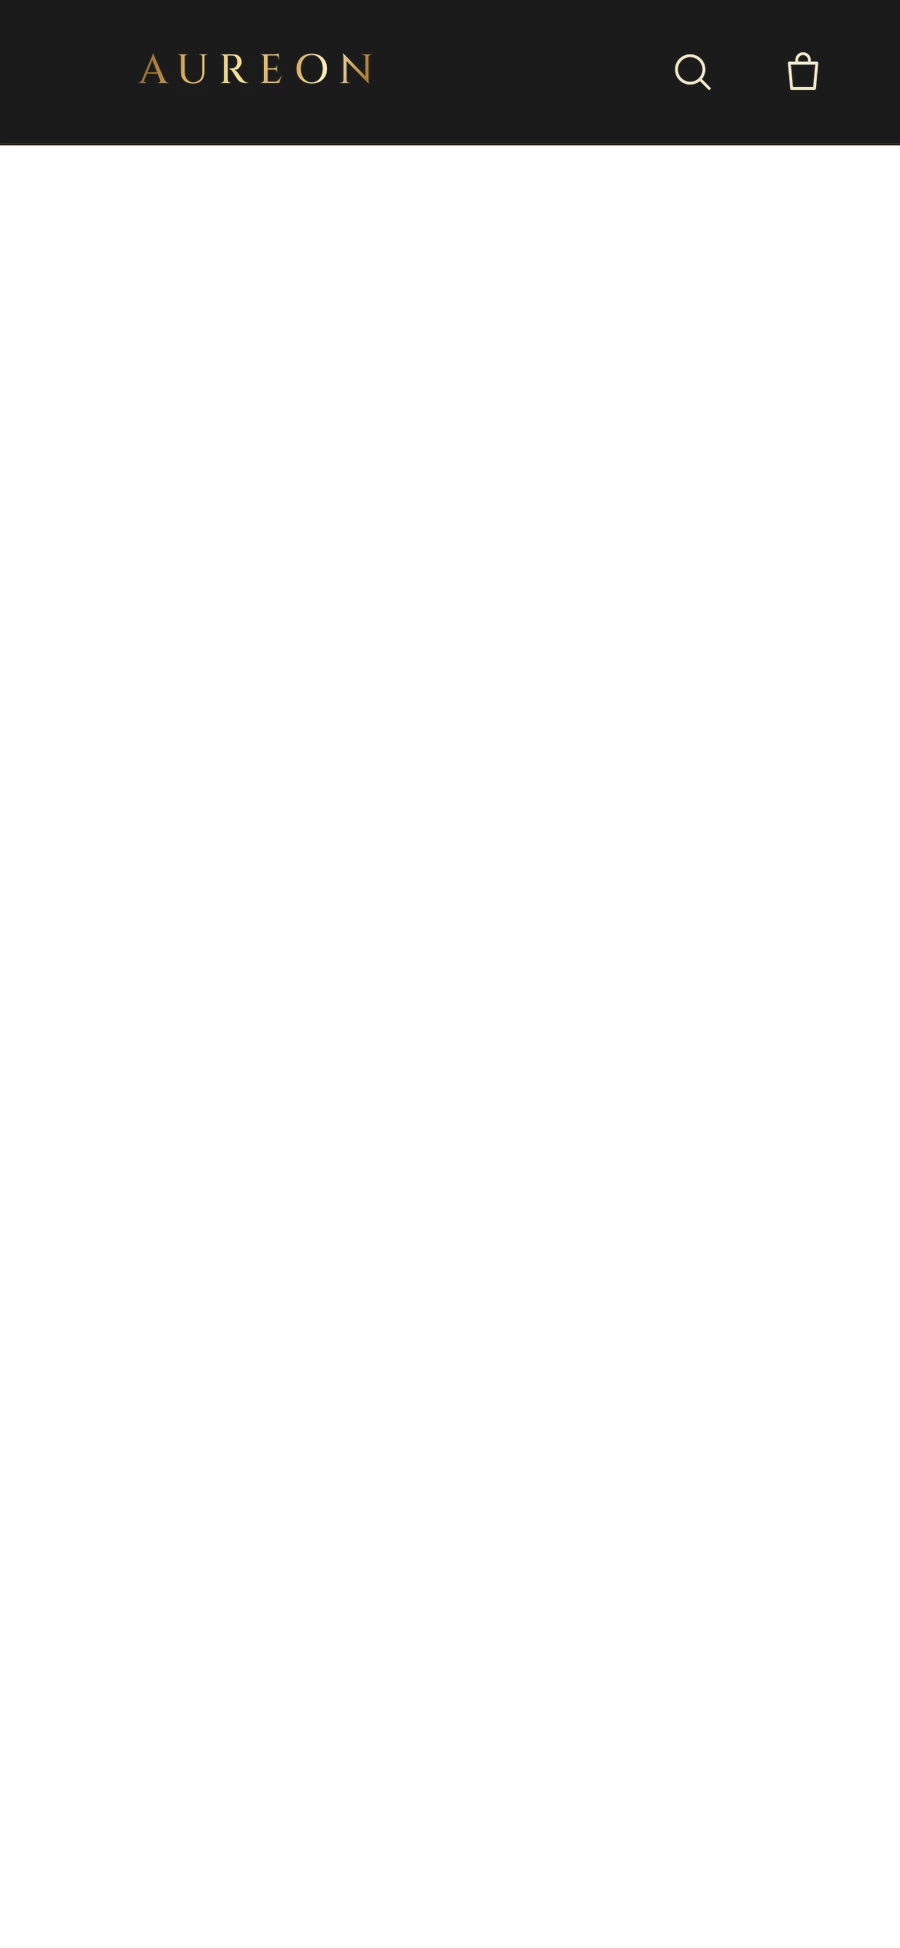
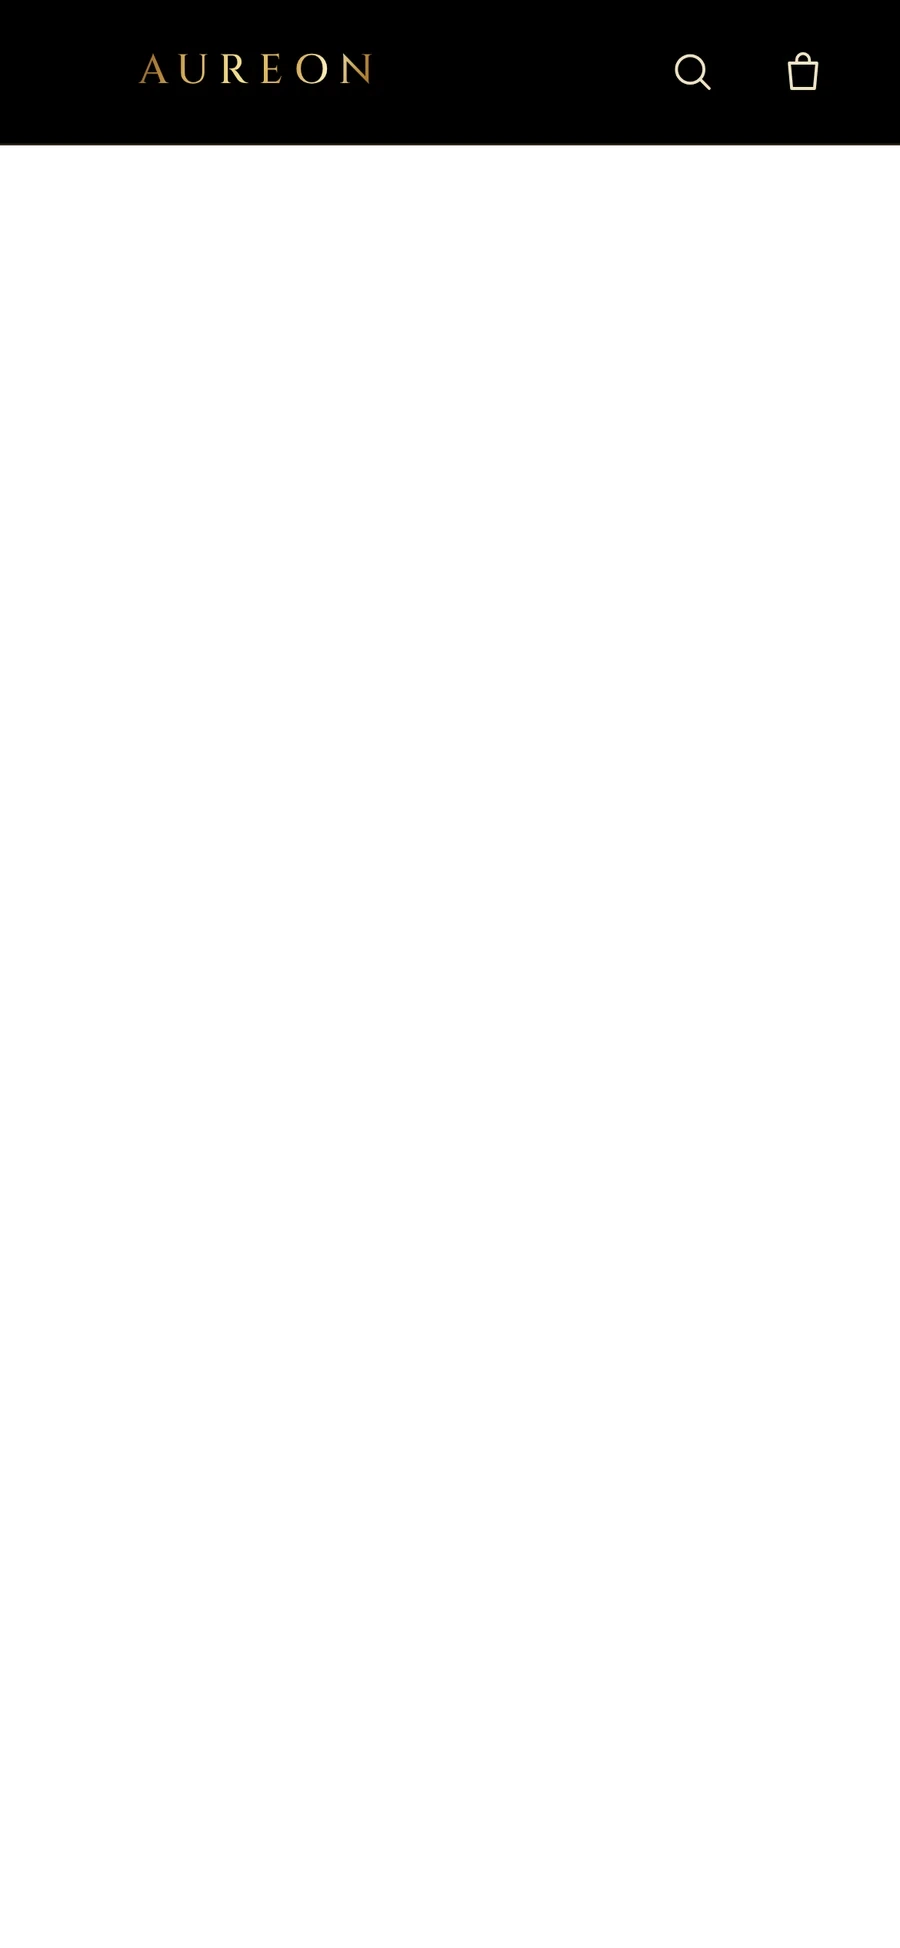
Arreglar barra fija del carrusel: header opaco, sin barra fantasma
Claude-Session: https://claude.ai/code/session_013M9XzrCTZDuXwUYm2st5Ny

Changed region(s): [[0.0, 0.0, 1.0, 0.0924]]

diff --git a/assets/css/site.css b/assets/css/site.css
@@ -1321,12 +1321,11 @@ main { display: block; }
 .dev-scene.is-tour img { transform: none; transition: none; }
 .tour-page { position: absolute; inset: 0; overflow: hidden; z-index: 1; }
 .dev-scene .tour-img { display: block; width: 100%; height: auto; transform: translate3d(0, 0, 0); }
-.dev-scene .tour-fixed { position: absolute; left: 0; top: 0; z-index: 2; width: 100%; height: auto; pointer-events: none; }
+.dev-scene .tour-fixed { position: absolute; left: 0; top: 0; z-index: 2; width: 100%; height: auto; pointer-events: none; transform: translate3d(0,0,0); }
 .dev-scene .tour-splash { position: absolute; inset: 0; z-index: 3; width: 100%; height: 100%; object-fit: cover; object-position: center; opacity: 1; background: #000; }
 @media (prefers-reduced-motion: no-preference) {
   .dev-scene.is-tour.is-on .tour-img, .dev-scene.is-tour.is-out .tour-img { animation: tour-scroll var(--t-run) cubic-bezier(0.45, 0.05, 0.3, 1) var(--t-start) both; }
   .dev-scene.is-tour.is-on .tour-splash, .dev-scene.is-tour.is-out .tour-splash { animation: tour-splash 650ms ease 1500ms both; }
-  .dev-scene.is-tour.is-on .tour-fixed, .dev-scene.is-tour.is-out .tour-fixed { animation: tour-fixed 500ms ease calc(var(--t-start) - 700ms) both; }
 }
 @media (prefers-reduced-motion: reduce) { .dev-scene .tour-splash { display: none; } }
 @keyframes tour-scroll { from { transform: translate3d(0, 0, 0); } to { transform: translate3d(0, calc(-100% + var(--sh)), 0); } }
